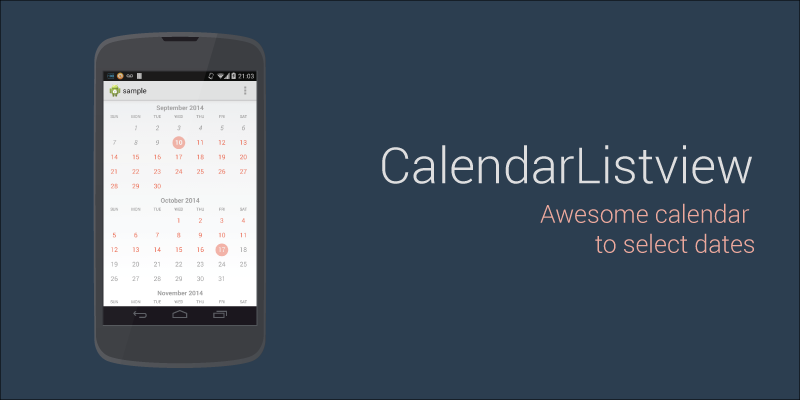
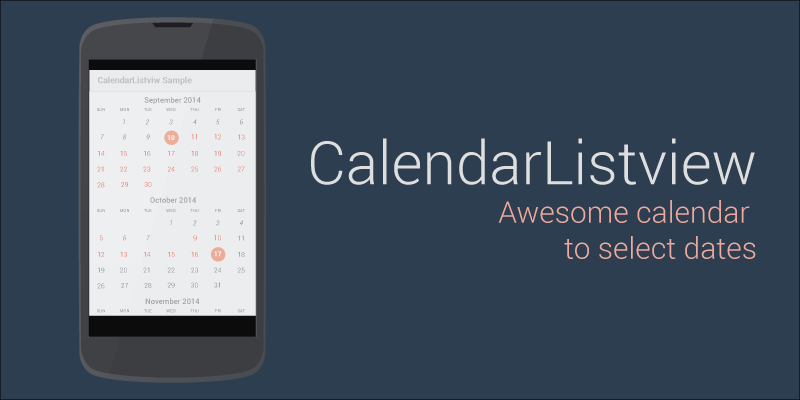
[FUNC] Add some attributes

diff --git a/library/src/main/java/com/andexert/calendarlistview/library/SimpleMonthView.java b/library/src/main/java/com/andexert/calendarlistview/library/SimpleMonthView.java
@@ -30,10 +30,10 @@ import android.graphics.Canvas;
 import android.graphics.Paint;
 import android.graphics.Paint.Align;
 import android.graphics.Paint.Style;
+import android.graphics.RectF;
 import android.graphics.Typeface;
 import android.text.format.DateUtils;
 import android.text.format.Time;
-import android.util.AttributeSet;
 import android.view.MotionEvent;
 import android.view.View;
 
@@ -43,7 +43,7 @@ import java.util.Calendar;
 import java.util.HashMap;
 import java.util.Locale;
 
-public class SimpleMonthView extends View
+class SimpleMonthView extends View
 {
 
     public static final String VIEW_PARAMS_HEIGHT = "height";
@@ -78,8 +78,11 @@ public class SimpleMonthView extends View
     protected Paint mMonthTitleBGPaint;
     protected Paint mMonthTitlePaint;
     protected Paint mSelectedCirclePaint;
+    protected int mMonthTextColor;
     protected int mDayTextColor;
+    protected int mDayNumColor;
     protected int mMonthTitleBGColor;
+    protected int mPreviousDayColor;
     protected int mSelectedDaysColor;
 
     private final StringBuilder mStringBuilder;
@@ -98,6 +101,7 @@ public class SimpleMonthView extends View
     protected int mNumCells = mNumDays;
     private int mDayOfWeekStart = 0;
     protected int mMonth;
+    protected Boolean mDrawRect;
     protected int mRowHeight = DEFAULT_HEIGHT;
     protected int mWidth;
     protected int mYear;
@@ -105,6 +109,7 @@ public class SimpleMonthView extends View
 
 	private final Calendar mCalendar;
 	private final Calendar mDayLabelCalendar;
+    private final Boolean isPrevDayEnabled;
 
     private int mNumRows = DEFAULT_NUM_ROWS;
 
@@ -112,10 +117,9 @@ public class SimpleMonthView extends View
 
     private OnDayClickListener mOnDayClickListener;
 
-    public SimpleMonthView(Context context, AttributeSet attrs, int defStyleAttr)
+    public SimpleMonthView(Context context, TypedArray typedArray)
     {
-        super(context, attrs, defStyleAttr);
-        final TypedArray typedArray = context.obtainStyledAttributes(attrs, R.styleable.DayPickerView);
+        super(context);
 
         Resources resources = context.getResources();
         mDayLabelCalendar = Calendar.getInstance();
@@ -124,9 +128,14 @@ public class SimpleMonthView extends View
         today.setToNow();
         mDayOfWeekTypeface = resources.getString(R.string.sans_serif);
         mMonthTitleTypeface = resources.getString(R.string.sans_serif);
-        mDayTextColor = typedArray.getColor(R.styleable.DayPickerView_colorNormalDay, resources.getColor(R.color.normal_day));
+        mMonthTextColor = typedArray.getColor(R.styleable.DayPickerView_colorMonthName, resources.getColor(R.color.normal_day));
+        mDayTextColor = typedArray.getColor(R.styleable.DayPickerView_colorDayName, resources.getColor(R.color.normal_day));
+        mDayNumColor = typedArray.getColor(R.styleable.DayPickerView_colorNormalDay, resources.getColor(R.color.normal_day));
+        mPreviousDayColor = typedArray.getColor(R.styleable.DayPickerView_colorPreviousDay, resources.getColor(R.color.normal_day));
         mSelectedDaysColor = typedArray.getColor(R.styleable.DayPickerView_colorSelectedDayBackground, resources.getColor(R.color.selected_day_background));
         mMonthTitleBGColor = typedArray.getColor(R.styleable.DayPickerView_colorSelectedDayText, resources.getColor(R.color.selected_day_text));
+
+        mDrawRect = typedArray.getBoolean(R.styleable.DayPickerView_drawRoundRect, false);
 
         mStringBuilder = new StringBuilder(50);
 
@@ -136,7 +145,9 @@ public class SimpleMonthView extends View
         MONTH_HEADER_SIZE = typedArray.getDimensionPixelOffset(R.styleable.DayPickerView_headerMonthHeight, resources.getDimensionPixelOffset(R.dimen.header_month_height));
         DAY_SELECTED_CIRCLE_SIZE = typedArray.getDimensionPixelSize(R.styleable.DayPickerView_selectedDayRadius, resources.getDimensionPixelOffset(R.dimen.selected_day_radius));
 
-        mRowHeight = ((typedArray.getDimensionPixelSize(R.styleable.DayPickerView_calendar_height, resources.getDimensionPixelOffset(R.dimen.calendar_height)) - MONTH_HEADER_SIZE) / 6);
+        mRowHeight = ((typedArray.getDimensionPixelSize(R.styleable.DayPickerView_calendarHeight, resources.getDimensionPixelOffset(R.dimen.calendar_height)) - MONTH_HEADER_SIZE) / 6);
+
+        isPrevDayEnabled = typedArray.getBoolean(R.styleable.DayPickerView_enablePreviousDay, true);
 
         initView();
 
@@ -182,7 +193,7 @@ public class SimpleMonthView extends View
     }
 
 	private void onDayClick(SimpleMonthAdapter.CalendarDay calendarDay) {
-		if (mOnDayClickListener != null && !((calendarDay.month == today.month) && (calendarDay.year == today.year) && calendarDay.day < today.monthDay)) {
+		if (mOnDayClickListener != null && (isPrevDayEnabled || !((calendarDay.month == today.month) && (calendarDay.year == today.year) && calendarDay.day < today.monthDay))) {
 			mOnDayClickListener.onDayClick(this, calendarDay);
         }
 	}
@@ -204,12 +215,18 @@ public class SimpleMonthView extends View
 		while (day <= mNumCells) {
 			int x = paddingDay * (1 + dayOffset * 2) + mPadding;
 			if ((mMonth == mSelectedBeginMonth && mSelectedBeginDay == day && mSelectedBeginYear == mYear) || (mMonth == mSelectedLastMonth && mSelectedLastDay == day && mSelectedLastYear == mYear)) {
-                canvas.drawCircle(x, y - MINI_DAY_NUMBER_TEXT_SIZE / 3, DAY_SELECTED_CIRCLE_SIZE, mSelectedCirclePaint);
+                if (mDrawRect)
+                {
+                    RectF rectF = new RectF(x - DAY_SELECTED_CIRCLE_SIZE, (y  - MINI_DAY_NUMBER_TEXT_SIZE / 3) - DAY_SELECTED_CIRCLE_SIZE, x + DAY_SELECTED_CIRCLE_SIZE, (y  - MINI_DAY_NUMBER_TEXT_SIZE / 3) + DAY_SELECTED_CIRCLE_SIZE);
+                    canvas.drawRoundRect(rectF, 10.0f, 10.0f,mSelectedCirclePaint);
+                }
+                else
+                    canvas.drawCircle(x, y - MINI_DAY_NUMBER_TEXT_SIZE / 3, DAY_SELECTED_CIRCLE_SIZE, mSelectedCirclePaint);
             }
             if (mHasToday && (mToday == day)) {
                 mMonthNumPaint.setTypeface(Typeface.defaultFromStyle(Typeface.BOLD));
             } else {
-				mMonthNumPaint.setColor(mDayTextColor);
+				mMonthNumPaint.setColor(mDayNumColor);
                 mMonthNumPaint.setTypeface(Typeface.defaultFromStyle(Typeface.NORMAL));
             }
 
@@ -253,8 +270,9 @@ public class SimpleMonthView extends View
                 mMonthNumPaint.setColor(mSelectedDaysColor);
             }
 
-            if (prevDay(day, today) && today.month == mMonth && today.year == mYear)
+            if (!isPrevDayEnabled && prevDay(day, today) && today.month == mMonth && today.year == mYear)
             {
+                mMonthNumPaint.setColor(mPreviousDayColor);
                 mMonthNumPaint.setTypeface(Typeface.defaultFromStyle(Typeface.ITALIC));
             }
 
@@ -290,7 +308,7 @@ public class SimpleMonthView extends View
         mMonthTitlePaint.setAntiAlias(true);
         mMonthTitlePaint.setTextSize(MONTH_LABEL_TEXT_SIZE);
         mMonthTitlePaint.setTypeface(Typeface.create(mMonthTitleTypeface, Typeface.BOLD));
-        mMonthTitlePaint.setColor(mDayTextColor);
+        mMonthTitlePaint.setColor(mMonthTextColor);
         mMonthTitlePaint.setTextAlign(Align.CENTER);
         mMonthTitlePaint.setStyle(Style.FILL);
 

diff --git a/library/src/main/java/com/andexert/calendarlistview/library/SimpleMonthAdapter.java b/library/src/main/java/com/andexert/calendarlistview/library/SimpleMonthAdapter.java
@@ -24,8 +24,7 @@
 package com.andexert.calendarlistview.library;
 
 import android.content.Context;
-import android.util.AttributeSet;
-import android.util.Log;
+import android.content.res.TypedArray;
 import android.view.View;
 import android.view.ViewGroup;
 import android.view.ViewGroup.LayoutParams;
@@ -39,14 +38,16 @@ import java.util.HashMap;
 
 public class SimpleMonthAdapter extends BaseAdapter implements SimpleMonthView.OnDayClickListener {
     protected static final int MONTHS_IN_YEAR = 12;
-    private final AttributeSet attrs;
+    private final TypedArray typedArray;
 	private final Context mContext;
 	private final DatePickerController mController;
     private final Calendar calendar;
     private final SelectedDays<CalendarDay> selectedDays;
+    private final Boolean startCurrentMonth;
 
-	public SimpleMonthAdapter(Context context, DatePickerController datePickerController, AttributeSet attrs) {
-        this.attrs = attrs;
+	public SimpleMonthAdapter(Context context, DatePickerController datePickerController, TypedArray typedArray) {
+        this.typedArray = typedArray;
+        startCurrentMonth = typedArray.getBoolean(R.styleable.DayPickerView_startCurrentMonth, false);
         selectedDays = new SelectedDays<CalendarDay>();
 		mContext = context;
 		mController = datePickerController;
@@ -67,13 +68,15 @@ public class SimpleMonthAdapter extends BaseAdapter implements SimpleMonthView.O
 	}
 
 	public View getView(int position, View convertView, ViewGroup parent) {
+        int month;
+        int year;
 		SimpleMonthView v;
         HashMap<String, Integer> drawingParams = null;
 		if (convertView != null) {
 			v = (SimpleMonthView) convertView;
             drawingParams = (HashMap<String, Integer>) v.getTag();
         } else {
-			v = new SimpleMonthView(mContext, attrs, 0);
+			v = new SimpleMonthView(mContext, typedArray);
 			v.setLayoutParams(new AbsListView.LayoutParams(LayoutParams.MATCH_PARENT, LayoutParams.MATCH_PARENT));
 			v.setClickable(true);
 			v.setOnDayClickListener(this);
@@ -82,8 +85,18 @@ public class SimpleMonthAdapter extends BaseAdapter implements SimpleMonthView.O
             drawingParams = new HashMap<String, Integer>();
         }
         drawingParams.clear();
-        final int month = (calendar.get(Calendar.MONTH) + (position % MONTHS_IN_YEAR)) % MONTHS_IN_YEAR;
-        final int year = position / MONTHS_IN_YEAR + calendar.get(Calendar.YEAR) + ((calendar.get(Calendar.MONTH) + (position % MONTHS_IN_YEAR)) / MONTHS_IN_YEAR);
+
+        if (startCurrentMonth)
+        {
+            month = (calendar.get(Calendar.MONTH) + (position % MONTHS_IN_YEAR)) % MONTHS_IN_YEAR;
+            year = position / MONTHS_IN_YEAR + calendar.get(Calendar.YEAR) + ((calendar.get(Calendar.MONTH) + (position % MONTHS_IN_YEAR)) / MONTHS_IN_YEAR);
+        }
+        else
+        {
+            month = position % MONTHS_IN_YEAR;
+            year = position / MONTHS_IN_YEAR + calendar.get(Calendar.YEAR);
+        }
+
 
         int selectedFirstDay = -1;
         int selectedLastDay = -1;
@@ -124,7 +137,8 @@ public class SimpleMonthAdapter extends BaseAdapter implements SimpleMonthView.O
 	}
 
 	protected void init() {
-        setSelectedDay(new CalendarDay(System.currentTimeMillis()));
+        if (typedArray.getBoolean(R.styleable.DayPickerView_currentDaySelected, false))
+            onDayTapped(new CalendarDay(System.currentTimeMillis()));
 	}
 
 	public void onDayClick(SimpleMonthView simpleMonthView, CalendarDay calendarDay) {

diff --git a/library/src/main/java/com/andexert/calendarlistview/library/DayPickerView.java b/library/src/main/java/com/andexert/calendarlistview/library/DayPickerView.java
@@ -23,11 +23,9 @@
  ***********************************************************************************/
 package com.andexert.calendarlistview.library;
 
-import android.annotation.TargetApi;
 import android.content.Context;
-import android.os.Build;
+import android.content.res.TypedArray;
 import android.util.AttributeSet;
-import android.view.ViewConfiguration;
 import android.widget.AbsListView;
 import android.widget.ListView;
 
@@ -40,7 +38,7 @@ public class DayPickerView extends ListView implements AbsListView.OnScrollListe
 	private boolean mPerformingScroll;
 	protected long mPreviousScrollPosition;
 	protected int mPreviousScrollState = 0;
-    protected float mFriction = 1.0F;
+    final TypedArray typedArray;
     private final AttributeSet attrs;
 
     public DayPickerView(Context context)
@@ -57,6 +55,7 @@ public class DayPickerView extends ListView implements AbsListView.OnScrollListe
     {
         super(context, attrs, defStyle);
         this.attrs = attrs;
+        typedArray = context.obtainStyledAttributes(attrs, R.styleable.DayPickerView);
         setLayoutParams(new LayoutParams(LayoutParams.MATCH_PARENT, LayoutParams.MATCH_PARENT));
         setDrawSelectorOnTop(false);
         init(context);
@@ -98,7 +97,7 @@ public class DayPickerView extends ListView implements AbsListView.OnScrollListe
 
 	protected void setUpAdapter() {
 		if (mAdapter == null) {
-			mAdapter = new SimpleMonthAdapter(getContext(), mController, attrs);
+			mAdapter = new SimpleMonthAdapter(getContext(), mController, typedArray);
         }
 		mAdapter.notifyDataSetChanged();
 	}
@@ -111,14 +110,6 @@ public class DayPickerView extends ListView implements AbsListView.OnScrollListe
 		setVerticalScrollBarEnabled(false);
 		setOnScrollListener(this);
 		setFadingEdgeLength(0);
-		setFrictionIfSupported(ViewConfiguration.getScrollFriction() * mFriction);
-	}
-
-	@TargetApi(Build.VERSION_CODES.HONEYCOMB)
-	void setFrictionIfSupported(float friction) {
-		if(Build.VERSION.SDK_INT >= Build.VERSION_CODES.HONEYCOMB) {
-			setFriction(friction);
-		}
 	}
 
     public SimpleMonthAdapter.SelectedDays<SimpleMonthAdapter.CalendarDay> getSelectedDays()

diff --git a/library/src/main/java/com/andexert/calendarlistview/library/CalendarUtils.java b/library/src/main/java/com/andexert/calendarlistview/library/CalendarUtils.java
@@ -23,9 +23,6 @@
  ***********************************************************************************/
 package com.andexert.calendarlistview.library;
 
-import android.content.Context;
-import android.util.TypedValue;
-
 import java.util.Calendar;
 
 
